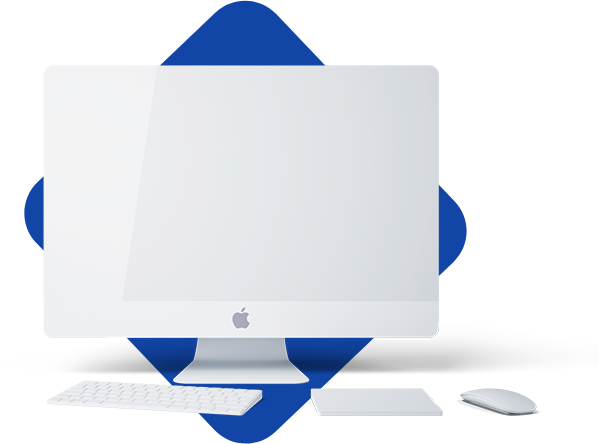
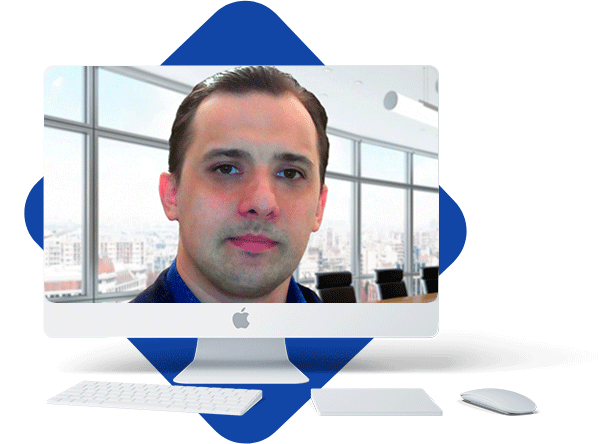
initial commit

Changed region(s): [[0.0601, 0.1464, 0.7513, 0.7027], [0.5409, 0.7905, 0.571, 0.8198]]

diff --git a/index.html b/index.html
@@ -9,7 +9,7 @@
 		<meta name="description" content="Сайт разработчика Сергея Шелестова">
 		<meta name="auyhor" content="Сергей Шелестов">
 		<!-- Иконка, которая будет на вкладке в браузере -->
-		<link rel="icon" href="img/favicon.ico">
+		<link rel="icon" href="img/favicon.jpg">
 		<!-- Заголовок на вкладке в браузере -->
 		<title>Сергей Шелестов-система прорыв</title>
 		<!--Шрифты от Google-->
@@ -25,15 +25,15 @@
 <header>
 	<div class="container">
 	  <div class="row">
-		<div class="col-lg-6 col-md-8">
-		  <img class="header-img wow fadeInLeftBig" src="img/main-img.jpg" alt="Моё фото"> 
+		<div class="col-lg-7 col-md-8">
+		  <img class="header-img wow fadeInLeftBig" src="img/main-foto.jpg" alt="Моё фото"> 
 		</div>
 		<!-- /.col-7 -->
-		<div class="col-lg-6 col-md-4">
-			<p class="header-pretitle wow fadeInRightBig" data-wow-delay="0.1s">Интернет-предприниматель</p>
+		<div class="col-lg-5 col-md-4">
+			<p class="header-pretitle wow fadeInRightBig" data-wow-delay="0.1s">Консультант-дистрибьютор</p>
 			<h1 class="header-title wow fadeInRightBig" data-wow-delay="0.2s">Шелестов Сергей</h1>
-			<p class="header-subtitle wow fadeInRightBig" data-wow-delay="0.3s">Создание международного<br>
-			Сетевого бизнеса</p>
+			<p class="header-subtitle wow fadeInRightBig" data-wow-delay="0.3s">Элитная биопродукция<br>
+			Компании «Тяньши»</p>
 			<div class="header-button-block wow fadeInRightBig" data-wow-delay="0.4s">
 			<a href="https://vk.me/shelestov.sergey" target="_blank" class="header-button">Связаться</a>
 			<small>*Это бесплатно</small>
@@ -43,13 +43,21 @@
 	<!-- /.row -->
 	</div>
 	<!-- /.container -->
+</div>
 	</header>
 
 <section class="portfolio">
 	<div class="container">				
 	<div class="portfolio-block wow fadeIn">
-		<h2 class="portfolio-title">Опыты с продукцией «Тяньши»:</h2>
-		<!--<p class="portfolio-subtitle">Мои работы</p>-->
+		<h3 class="portfolio-subtitle">Основная функция биопродуктов «Тяньши»<br>- это обеспечение безопасности здоровья:</h3>
+		
+		<ul>
+			<li>Нейтрализация побочного действия спортивной фармакологии, лекарств, химиотерапии.</li>
+			<li>Предотвращение заболеваний на стадии возникновения.</li>
+			<li>Устранение дисбаланса питания:</li>
+			<li>Безопасное выведение лишних жиров во время еды.</li>
+		</ul>
+		<h2 class="portfolio-title">Опыты с биопродукцией «Тяньши»:</h2>
 		<div class="row">
 			<div class="col-md-6">
 			<div class="portfolio-col-1">
@@ -66,48 +74,32 @@
 1.Стакан с водой 2.Рис 3.Йод
 4.Целебные капсулы (Икан)
 💡Капсулы "Икан" применяются, как добавка к основному рациону питания.
-Таким образом без побочных эффектов для здоровья нейтрализуются свободные радикалы, токсины и продукты распада в организме.
-❗Продукт под контролем РАМН<br>
-👍Я предлагаю вам создать растущий источник дохода на этом и других уникальных продуктах.
-По программе лояльности. Смотрите Видео:</p> <div class="embed-responsive embed-responsive-16by9">
-  <iframe  class="embed-responsive-item" src="https://www.youtube.com/embed/nXemfEYejAY?rel=0" frameborder="0"  allowfullscreen>
-  	</iframe>
+Таким образом без побочных эффектов для здоровья нейтрализуются свободные радикалы, токсины и продукты распада в организме.</p>
+<h3>Продукция «Тяньши» под контролем РАМН</h3> 
+<div class="embed-responsive embed-responsive-16by9">
+ <!-- <iframe  class="embed-responsive-item" src="https://www.youtube.com/embed/nXemfEYejAY?rel=0"  frameborder="0" allowfullscreen></iframe>-->
+ <iframe class="embed-responsive-item" src="https://www.youtube.com/embed/JwoMS-9rKK0?rel=0" frameborder="0" allow="autoplay; encrypted-media" allowfullscreen></iframe>
 </div>
-<p class="portfolio-text">💡Чтобы начать обучение войдите в свой ЛК<br> <a href="http://mlmsystem.su/land1-svshelestov" target="_blank">Вход в ЛК</a> выберите продукт, оформите карту, сгенерируйте лендинг и делитесь с друзьями этой новостью. Поддержка приходит на Email 🎯Наша цель:
-Мы строим организацию для компании "Tiens" БЕЗ продаж. ❗Продажами занимаются сотрудники специализированных магазинов "ИП"
-Создание ВАШЕЙ команды на старте я беру на себя. Получив свой реферальный лендинг вы сможете сами расширять свою организацию и увеличивать доход.
-За 2 месяца вы можете выйти на недельный максимум 800$ по карте номиналом 100$
-📽См. Видео ссылка в профиле
-Результат зависит от ваших целей🎯
-Преимущества⤵
-▪Вы платите только себе.
-▪Старт со 100$ идут на ваш накопительный счёт.
-▪Все Последующие заказы также идут на ваш накопительный счёт.
-▪Нет никаких дополнительных платежей.
-▪У каждого партнёра свой реферальный сайт. 📈Индустрия растёт на 22% в год.На рынке с 1995 года
-В 2014 г. В Росси продано продукции на 43млн💲
-За 2017 г. В России было продано продукции на 1млрд💲
-</p>
-				<a href="http://mlmsystem.su/land1-svshelestov" target="_blank">Регистрация на сайте</a>
+				<p><a href="http://mlmsystem.su/land1-svshelestov" target="_blank">Регистрация на сайте</a></p>
 			</div>
 			</div>
 			<!-- /.col-6 -->
 			<div class="col-md-6">
 				<div class="portfolio-col-2">
 					<!--<img src="img/portfolio-img-2.jpg" alt="Мир">-->
+<!-- 16:9 aspect ratio -->
 					<div class="embed-responsive embed-responsive-16by9">
   <iframe  class="embed-responsive-item" src="https://www.youtube.com/embed/iaRPUX3Ygdo?rel=0" frameborder="0"  allowfullscreen>
   	</iframe>
 </div>
-				<h3>ВИДЕО ЭКСПЕРИМЕНТ С БИОПРОДУКТОМ «Хитозан»</h3>
-				<p class="portfolio-text">Обновленная версия сайта знакомит посетителей с компаниями, уже принимающими карты к оплате, и приглашает всех остальных присоединиться к проекту...</p>
+				<h3>ВИДЕО ЭКСПЕРИМЕНТ<br>С БИОПРОДУКТОМ «Хитозан»</h3>
+				<p class="portfolio-text1">Сегодня, более миллиона людей во всём мире принимают хитин и хитозан в качестве диетических добавок для улучшения здоровья.</p><div class="outline">
+				<p class="portfolio-text2">Хитозан российский  содержит 15% хитозана и 85% хитина,<br>Хитозан американский - 38% хитозана и 62% хитина, <br>Хитозан японский - 65% хитозана и 35% хитина<br>Хитозан Тяньши - 85% хитозана и 15% хитина.</p></div><p class="portfolio-text3">Японцы пользуются хитозаном Тяньши, несмотря на то, что на разработку собственного хитозана потратили около 10 млн.$.</p>
 				<a href="http://mlmsystem.su/land1-svshelestov" target="_blank">Регистрация на сайте</a>
 				</div>
 			</div>
 			<!-- /.col-6 -->
-		</div>
-	</div>		
-   </div>
+			
 
 </section>
 <footer>
@@ -131,7 +123,7 @@
 			<div class="col-md-4">
 				<div class="footer-cta-block">
 					<p class="footer-cta">Напишите мне</p>
-				    <a href="https://vk.com/shelestov.sergey" target="_blank" class="footer-button">Написать</a>
+				    <a href="https://vk.com/shelestov.sergey" target="_blank" class="footer-button">Обратная связь</a>
 				</div>
 				
 			</div>
